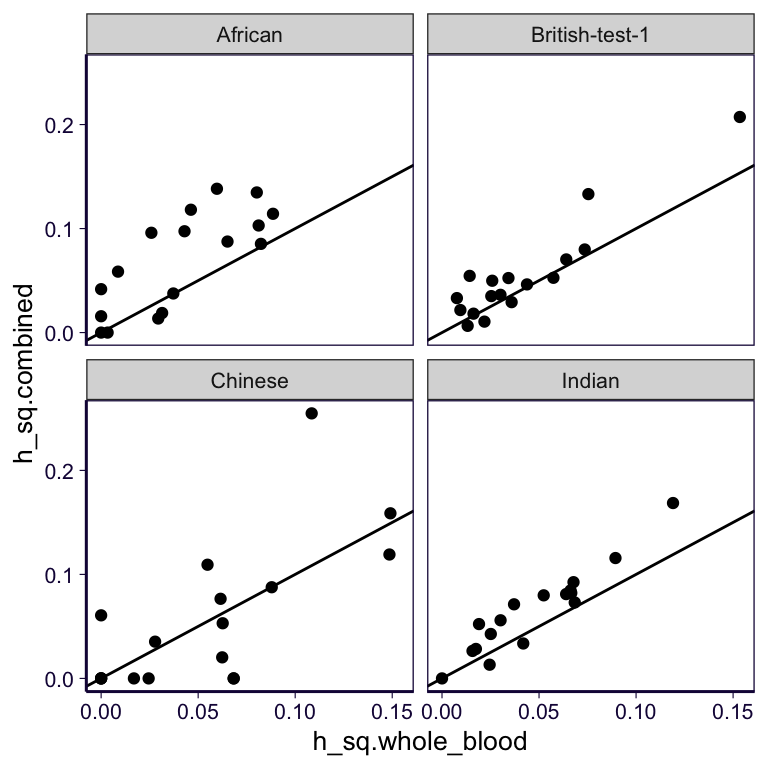
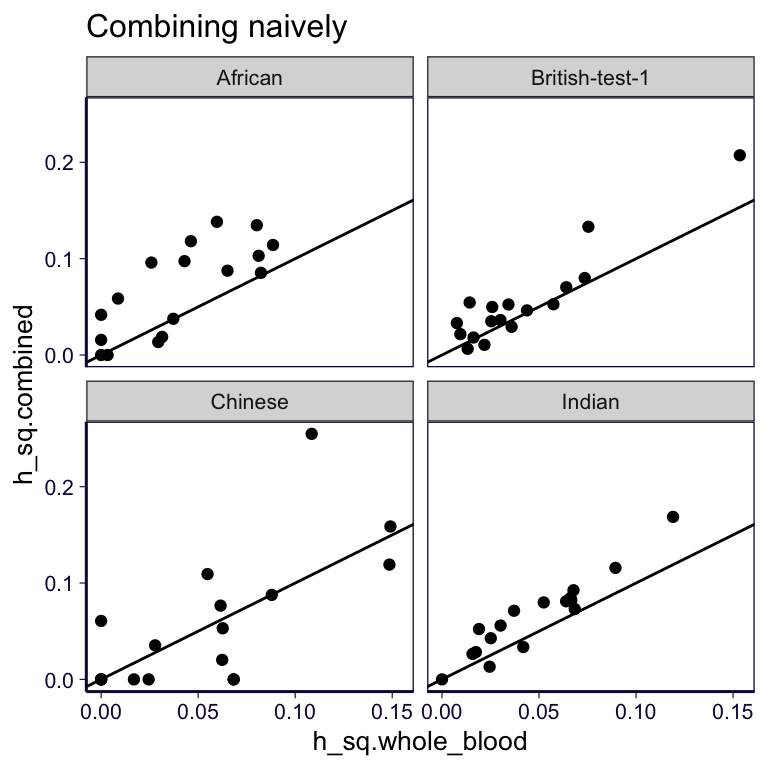
added summary on gcta multi tissue with svd

diff --git a/docs/regulability_ctimp.html b/docs/regulability_ctimp.html
@@ -491,6 +491,18 @@ df_naive = do.call(rbind, df_naive)
 df_naive[is.na(df_naive)] = 0
 df_naive %&gt;% ggplot() + geom_bar(aes(x = trait, y = h_sq, fill = population), stat = &#39;identity&#39;, position = &#39;dodge&#39;) + theme(legend.position = &#39;bottom&#39;) + th + ggtitle(&#39;REML analysis: combining tissues naively&#39;)</code></pre>
 <p><img src="regulability_ctimp_files/figure-html/multi-naive-1.png" width="768" /></p>
+</div>
+<div id="combining-tissues-with-pca" class="section level2">
+<h2><span class="header-section-number">2.3</span> Combining tissues with PCA</h2>
+<pre class="r"><code>df_pca = list()
+for(pop in pops) {
+  tmp = read.table(paste0(&#39;~/Desktop/tmp/gcta_regu/reml_from_hail-multi-tissue-tissue_svd_x_martin_et_al_traits_x_ctimp_x_&#39;, pop, &#39;.tsv&#39;), header = T, stringsAsFactors = F, sep = &#39;\t&#39;)
+  df_pca[[length(df_pca) + 1]] = tmp %&gt;% mutate(population = pop)
+}
+df_pca = do.call(rbind, df_pca)
+df_pca[is.na(df_pca)] = 0
+df_pca %&gt;% ggplot() + geom_bar(aes(x = trait, y = h_sq, fill = population), stat = &#39;identity&#39;, position = &#39;dodge&#39;) + theme(legend.position = &#39;bottom&#39;) + th + ggtitle(&#39;REML analysis: combining tissues naively&#39;)</code></pre>
+<p><img src="regulability_ctimp_files/figure-html/multi-pca-1.png" width="768" /></p>
 <p>Combined vs. Whole blood.</p>
 <pre class="r"><code>merge = inner_join(
   df_naive %&gt;% select(trait, population, h_sq, h_sq_se),
@@ -498,8 +510,65 @@ df_naive %&gt;% ggplot() + geom_bar(aes(x = trait, y = h_sq, fill = population),
   by = c(&#39;trait&#39;, &#39;population&#39;),
   suffix = c(&#39;.combined&#39;, &#39;.whole_blood&#39;)
 )
-merge %&gt;% ggplot() + geom_point(aes(x = h_sq.whole_blood, y = h_sq.combined)) + facet_wrap(~population) + geom_abline(slope = 1, intercept = 0) + th</code></pre>
+merge %&gt;% ggplot() + geom_point(aes(x = h_sq.whole_blood, y = h_sq.combined)) + facet_wrap(~population) + geom_abline(slope = 1, intercept = 0) + th + ggtitle(&#39;Combining naively&#39;)</code></pre>
 <p><img src="regulability_ctimp_files/figure-html/multi-naive-vs-1.png" width="384" /></p>
+<pre class="r"><code>merge_eur = merge %&gt;% filter(population == &#39;British-test-1&#39;)
+tmp = delta_mtd(merge_eur$h_sq.combined, merge_eur$h_sq_se.combined ^ 2, merge_eur$h_sq.whole_blood, merge_eur$h_sq_se.whole_blood ^ 2)
+merge_eur$ratio = tmp$m
+merge_eur$ratio_se = sqrt(tmp$v)
+data.frame(meta_fixed(merge_eur$ratio, merge_eur$ratio_se)) %&gt;% pander(caption = &#39;PVE in multi-tissue (naive approach) over PVE in whole blood&#39;)</code></pre>
+<table style="width:24%;">
+<caption>PVE in multi-tissue (naive approach) over PVE in whole blood</caption>
+<colgroup>
+<col width="11%" />
+<col width="12%" />
+</colgroup>
+<thead>
+<tr class="header">
+<th align="center">m</th>
+<th align="center">se</th>
+</tr>
+</thead>
+<tbody>
+<tr class="odd">
+<td align="center">1.197</td>
+<td align="center">0.1586</td>
+</tr>
+</tbody>
+</table>
+<pre class="r"><code>merge = inner_join(
+  df_pca %&gt;% select(trait, population, h_sq, h_sq_se),
+  df %&gt;% filter(tissue == &#39;Whole_Blood&#39;) %&gt;% select(trait, population, h_sq, h_sq_se),
+  by = c(&#39;trait&#39;, &#39;population&#39;),
+  suffix = c(&#39;.combined&#39;, &#39;.whole_blood&#39;)
+)
+merge %&gt;% ggplot() + geom_point(aes(x = h_sq.whole_blood, y = h_sq.combined)) + facet_wrap(~population) + geom_abline(slope = 1, intercept = 0) + th + ggtitle(&#39;Combining with PCA&#39;)</code></pre>
+<p><img src="regulability_ctimp_files/figure-html/multi-pca-vs-1.png" width="384" /></p>
+<!-- Ratio of PVE (single tissue whole blood over multi-tissue with PCA or naive approach). -->
+<pre class="r"><code>merge_eur = merge %&gt;% filter(population == &#39;British-test-1&#39;)
+tmp = delta_mtd(merge_eur$h_sq.combined, merge_eur$h_sq_se.combined ^ 2, merge_eur$h_sq.whole_blood, merge_eur$h_sq_se.whole_blood ^ 2)
+merge_eur$ratio = tmp$m
+merge_eur$ratio_se = sqrt(tmp$v)
+data.frame(meta_fixed(merge_eur$ratio, merge_eur$ratio_se)) %&gt;% pander(caption = &#39;PVE in multi-tissue (PCA) over PVE in whole blood&#39;)</code></pre>
+<table style="width:24%;">
+<caption>PVE in multi-tissue (PCA) over PVE in whole blood</caption>
+<colgroup>
+<col width="11%" />
+<col width="12%" />
+</colgroup>
+<thead>
+<tr class="header">
+<th align="center">m</th>
+<th align="center">se</th>
+</tr>
+</thead>
+<tbody>
+<tr class="odd">
+<td align="center">1.481</td>
+<td align="center">0.1956</td>
+</tr>
+</tbody>
+</table>
 </div>
 </div>
 
